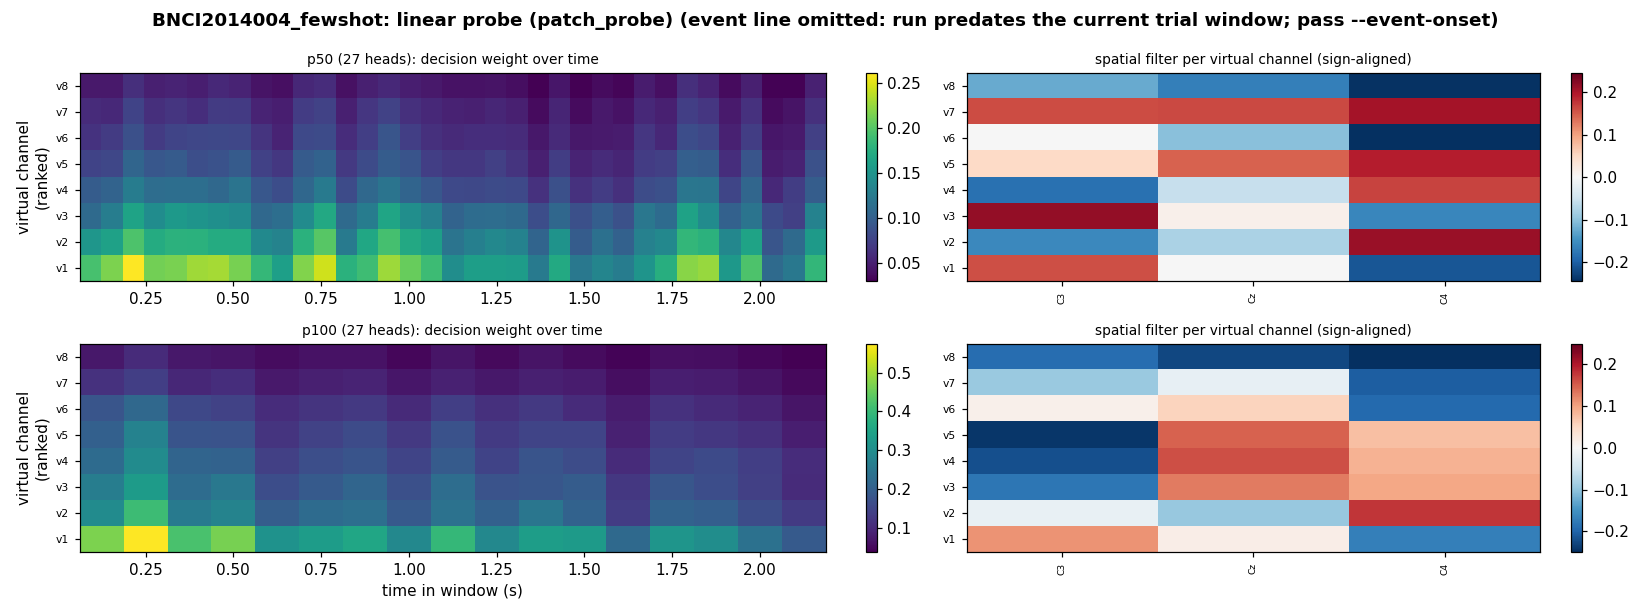
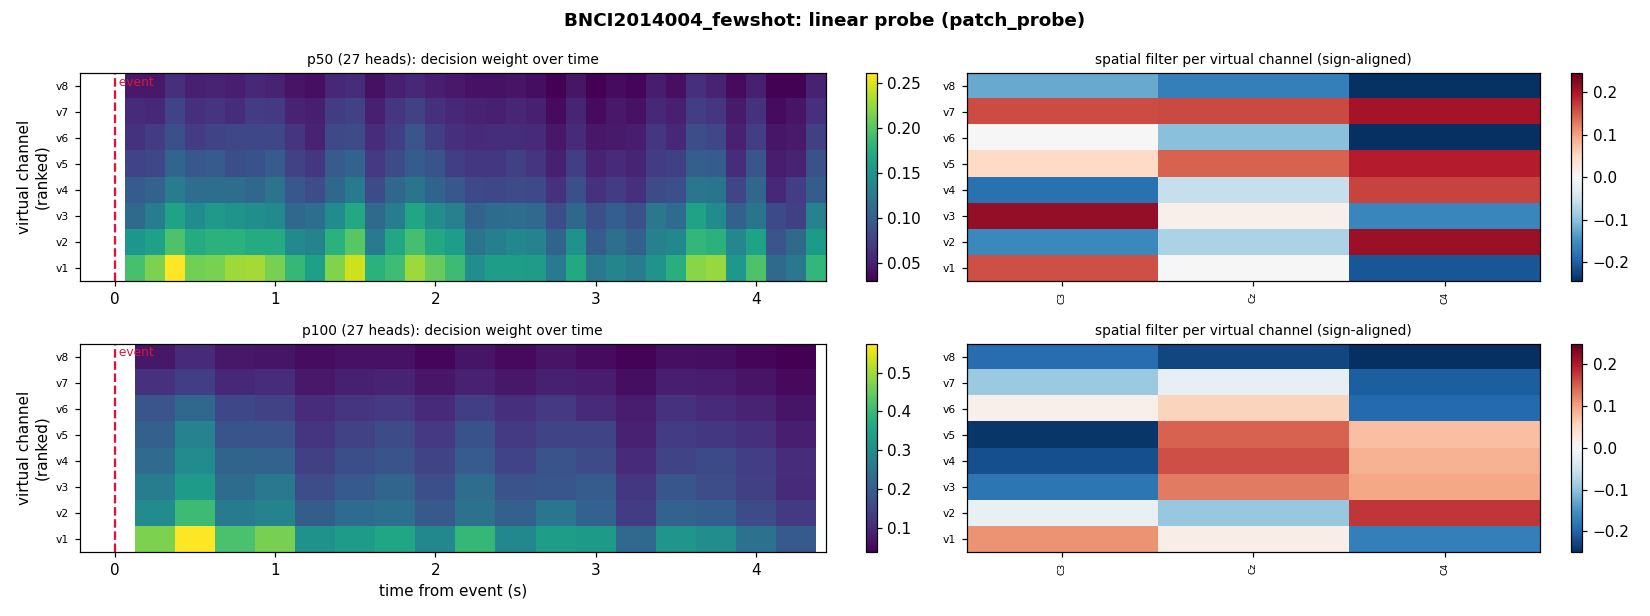
fix(viz): probe_maps time axis per group -- groups with different patch grids were squeezed onto one axis
The panel took the patch count from the last group and the stride from the first, so comparing patch 50
with patch 100 compressed the patch-50 map ~2x and falsely reported that the run predates the trial
window. Each group now gets its own time axis (rows share one x range); event line drawn in crimson so
it is visible at the window edge. Patch-length report maps regenerated.

Claude-Session: https://claude.ai/code/session_011ZRo7FMWpgbtn1N34keF18

diff --git a/tools/panels/panel_probe_maps.py b/tools/panels/panel_probe_maps.py
@@ -19,11 +19,30 @@ from tools.viz.probe_plots import plot_probe_maps
 STAGES = frozenset({'finetune'})
 
 
+def _time_axis(cfg, n_patch, override):
+    """-> (patch-centre times in seconds from the event (or from the window start without one), title note),
+    from the run's own patch length / stride."""
+    ds = next(iter(cfg['dataset_params']['finetune']))
+    pp = cfg['preprocess_params']
+    L, stride, sf = pp.get('patch_length', 50), pp.get('patch_stride', 50), float(pp['sample_freq'])
+    meta = json.load(open(f"{cfg['dataset_params']['finetune'][ds]['dataset_path']}/metadata.json"))['data_metadata']
+    n_expected = int((meta['acquisition']['window_size_seconds'] * sf - L) // stride + 1)
+    onset, note = lookup_event_onset_sample(cfg, ds), ''
+    if ds in override:                                   # the run's own window, given explicitly
+        onset, note = float(override[ds]) * sf, f' (event at {override[ds]} s in the run\'s window, given)'
+    elif onset is not None and n_expected != n_patch:    # the run predates the dataset's current trial window
+        onset, note = None, ' (event line omitted: run predates the current trial window; pass --event-onset)'
+    elif onset is None:
+        note = ' (event line omitted: no event)'
+    return (np.arange(n_patch) * stride + L / 2 - (onset or 0)) / sf, note
+
+
 def run(ctx):
     cells = sorted({re.sub(r'_seed\d+$', '', os.path.basename(d)) for bb in ctx.groups.values()
                     for d in glob.glob(f'output/{bb}/finetune/{ctx.head}/*')})
+    override = dict(e.split('=', 1) for e in getattr(ctx.args, 'event_onset', []))
     for cell in cells:
-        maps, cfg, n_patch = {}, None, None
+        maps, cfg, notes, has_event = {}, None, set(), False
         for g, bb in ctx.groups.items():
             dirs = sorted(glob.glob(f'output/{bb}/finetune/{ctx.head}/{cell}')
                           + glob.glob(f'output/{bb}/finetune/{ctx.head}/{cell}_seed*'))
@@ -34,30 +53,19 @@ def run(ctx):
                 imp, sp, n = summarise(heads)
             except KeyError:
                 continue                                    # not a latent_signed head
-            maps[f'{g} ({n} heads)'] = (imp.numpy(), sp.numpy())
-            n_patch = imp.shape[1]
-            if cfg is None:
-                cfg = json.load(open(f'{dirs[0]}/artifacts/config.json'))
+            gcfg = json.load(open(f'{dirs[0]}/artifacts/config.json'))
+            cfg = cfg or gcfg
+            t, note = _time_axis(gcfg, imp.shape[1], override)   # this group's own patch grid
+            notes.add(note); has_event |= not note.startswith(' (event line omitted')
+            maps[f'{g} ({n} heads)'] = (imp.numpy(), sp.numpy(), t)
         if not maps:
             continue
-        ds = next(iter(cfg['dataset_params']['finetune']))
-        pp = cfg['preprocess_params']
-        L, stride, sf = pp.get('patch_length', 50), pp.get('patch_stride', 50), float(pp['sample_freq'])
-        meta = json.load(open(f"{cfg['dataset_params']['finetune'][ds]['dataset_path']}/metadata.json"))['data_metadata']
-        n_expected = int((meta['acquisition']['window_size_seconds'] * sf - L) // stride + 1)
-        onset = lookup_event_onset_sample(cfg, ds)
-        note = ''
-        override = dict(e.split('=', 1) for e in getattr(ctx.args, 'event_onset', []))
-        if ds in override:                                   # the run's own window, given explicitly
-            onset, note = float(override[ds]) * sf, f' (event at {override[ds]} s in the run\'s window, given)'
-        elif onset is not None and n_expected != n_patch:    # the run predates the dataset's current trial window
-            onset, note = None, ' (event line omitted: run predates the current trial window; pass --event-onset)'
-        t = (np.arange(n_patch) * stride + L / 2 - (onset or 0)) / sf
-        chans = resolve_canonical_channels(pp['canonical_channels'])
+        note = ''.join(sorted(n for n in notes if n))
+        chans = resolve_canonical_channels(cfg['preprocess_params']['canonical_channels'])
         hc = torch.load(glob.glob(f'output/{next(iter(ctx.groups.values()))}/finetune/{ctx.head}/{cell}*/finetune/run_*/head.pth')[0],
                         map_location='cpu', weights_only=False)['head_config']
         names = [chans[i] for i in hc['channel_idx']]
         out = os.path.join(ctx.out_dir, f'probe_maps_{cell}.png')
-        plot_probe_maps(out, maps, names, f'{cell}: linear probe ({ctx.head}){note}', t,
-                        event_s=0.0 if onset is not None else None)
+        plot_probe_maps(out, maps, names, f'{cell}: linear probe ({ctx.head}){note}',
+                        event_s=0.0 if has_event else None)
         print(f"  -> {out}")

diff --git a/tools/viz/probe_plots.py b/tools/viz/probe_plots.py
@@ -6,20 +6,24 @@ import matplotlib.pyplot as plt
 import numpy as np
 
 
-def plot_probe_maps(out_path, maps, channel_names, title, t_axis, event_s=None):
-    """maps: {row title: (importance [K, N], spatial [K, C])}. Left: virtual channel (ranked by importance)
-    x time in seconds (event at 0, dashed); right: each virtual channel's spatial filter over electrodes."""
+def plot_probe_maps(out_path, maps, channel_names, title, event_s=None):
+    """maps: {row title: (importance [K, N], spatial [K, C], t_axis [N] seconds of each patch centre)} -- each row
+    has its own time axis (groups may differ in patch length / stride); the time columns share one x range.
+    Left: virtual channel (ranked by importance) x time (event at 0, dashed); right: each virtual channel's
+    spatial filter over electrodes."""
     fig, axes = plt.subplots(len(maps), 2, figsize=(15, 2.8 * len(maps)), squeeze=False,
                              gridspec_kw={'width_ratios': [1.3, 1]})
-    dt = (t_axis[1] - t_axis[0]) if len(t_axis) > 1 else 1.0
-    for (ax_t, ax_s), (name, (imp, sp)) in zip(axes, maps.items()):
-        imp, sp = np.asarray(imp), np.asarray(sp)
+    for ax_t in axes[1:, 0]:
+        ax_t.sharex(axes[0, 0])
+    for (ax_t, ax_s), (name, (imp, sp, t_axis)) in zip(axes, maps.items()):
+        imp, sp, t_axis = np.asarray(imp), np.asarray(sp), np.asarray(t_axis)
+        dt = (t_axis[1] - t_axis[0]) if len(t_axis) > 1 else 1.0
         K = imp.shape[0]
         im = ax_t.imshow(imp, aspect='auto', cmap='viridis', origin='lower',
                          extent=[t_axis[0] - dt / 2, t_axis[-1] + dt / 2, -0.5, K - 0.5])
         if event_s is not None:
-            ax_t.axvline(0.0, color='w', ls='--', lw=1.5)
-            ax_t.text(0.0, K - 0.6, ' event', color='w', fontsize=8, va='top')
+            ax_t.axvline(0.0, color='crimson', ls='--', lw=1.5)   # visible on the map and on the blank margin
+            ax_t.text(0.0, K - 0.6, ' event', color='crimson', fontsize=8, va='top')
         ax_t.set_yticks(range(K), [f'v{k + 1}' for k in range(K)], fontsize=7)
         ax_t.set_ylabel('virtual channel\n(ranked)')
         ax_t.set_title(f'{name}: decision weight over time', fontsize=9)
